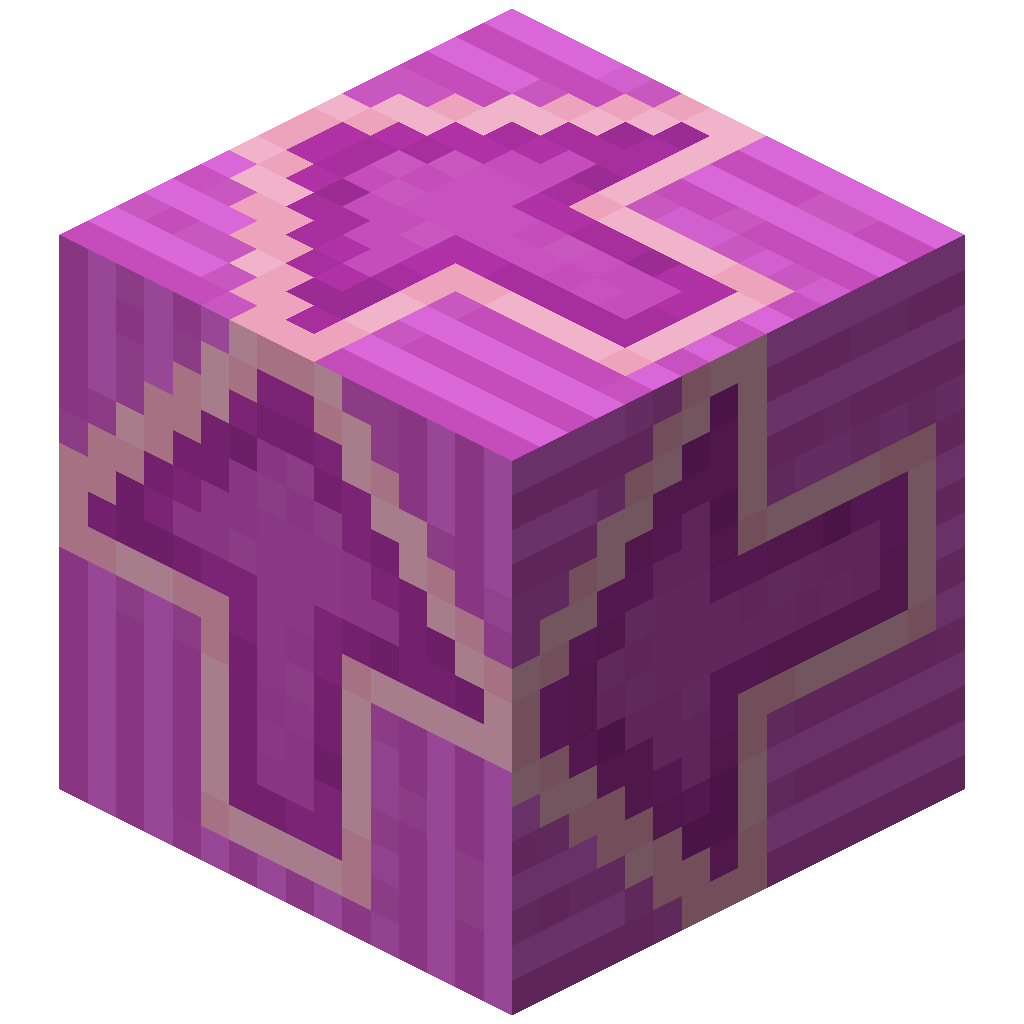
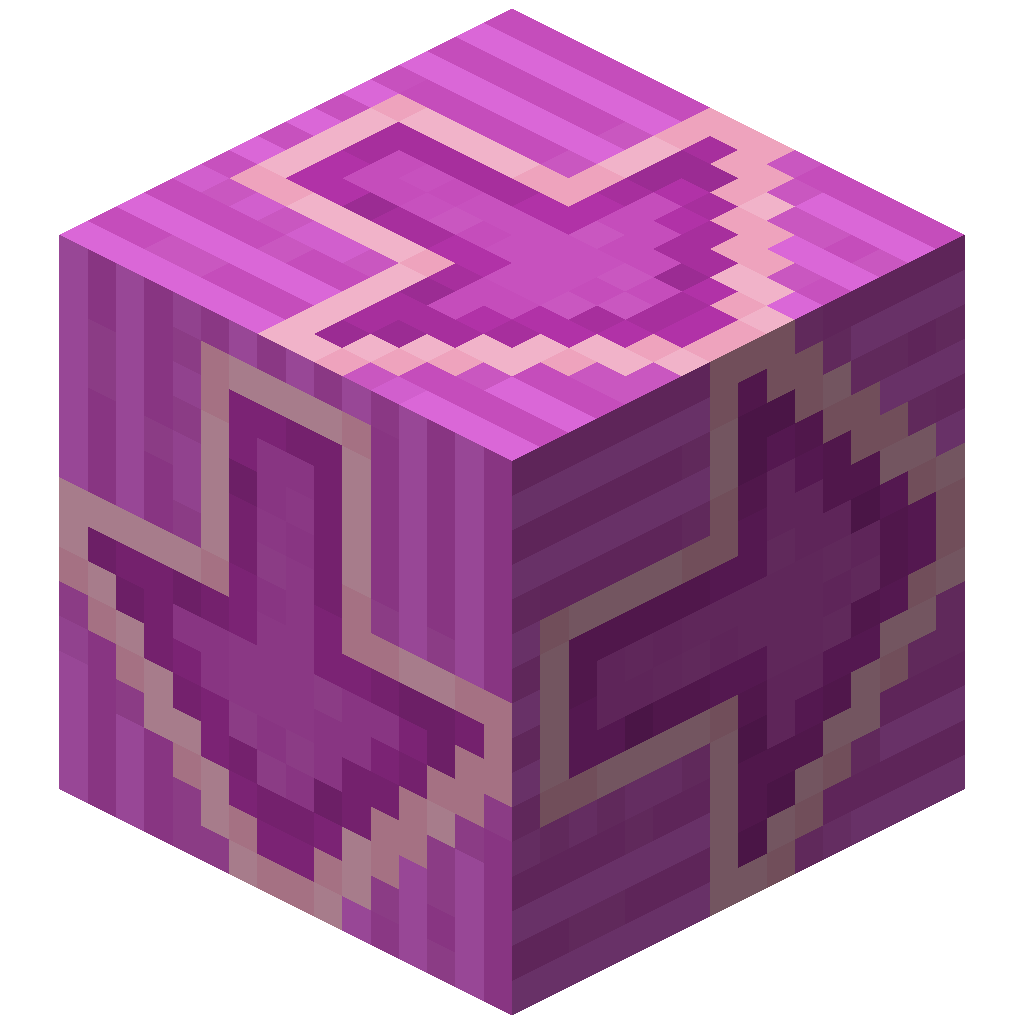
fix glazed terracotta rotation

diff --git a/blockmodel-utils.js b/blockmodel-utils.js
@@ -83,7 +83,7 @@ const UNIQUE_DEFAULT_BLOCKSTATES = {
   fire: {
     up: false
   },
-  "*_stairs": {
+  "*_stairs|*_glazed_terracotta|cocoa": {
     facing: "south"
   },
   "*_amethyst_bud|amethyst_cluster|barrel|end_rod|*lightning_rod|*piston*": {
@@ -91,9 +91,6 @@ const UNIQUE_DEFAULT_BLOCKSTATES = {
   },
   "*campfire": {
     lit: true
-  },
-  "cocoa": {
-    facing: "south"
   },
   glow_lichen: {
     up: false,
